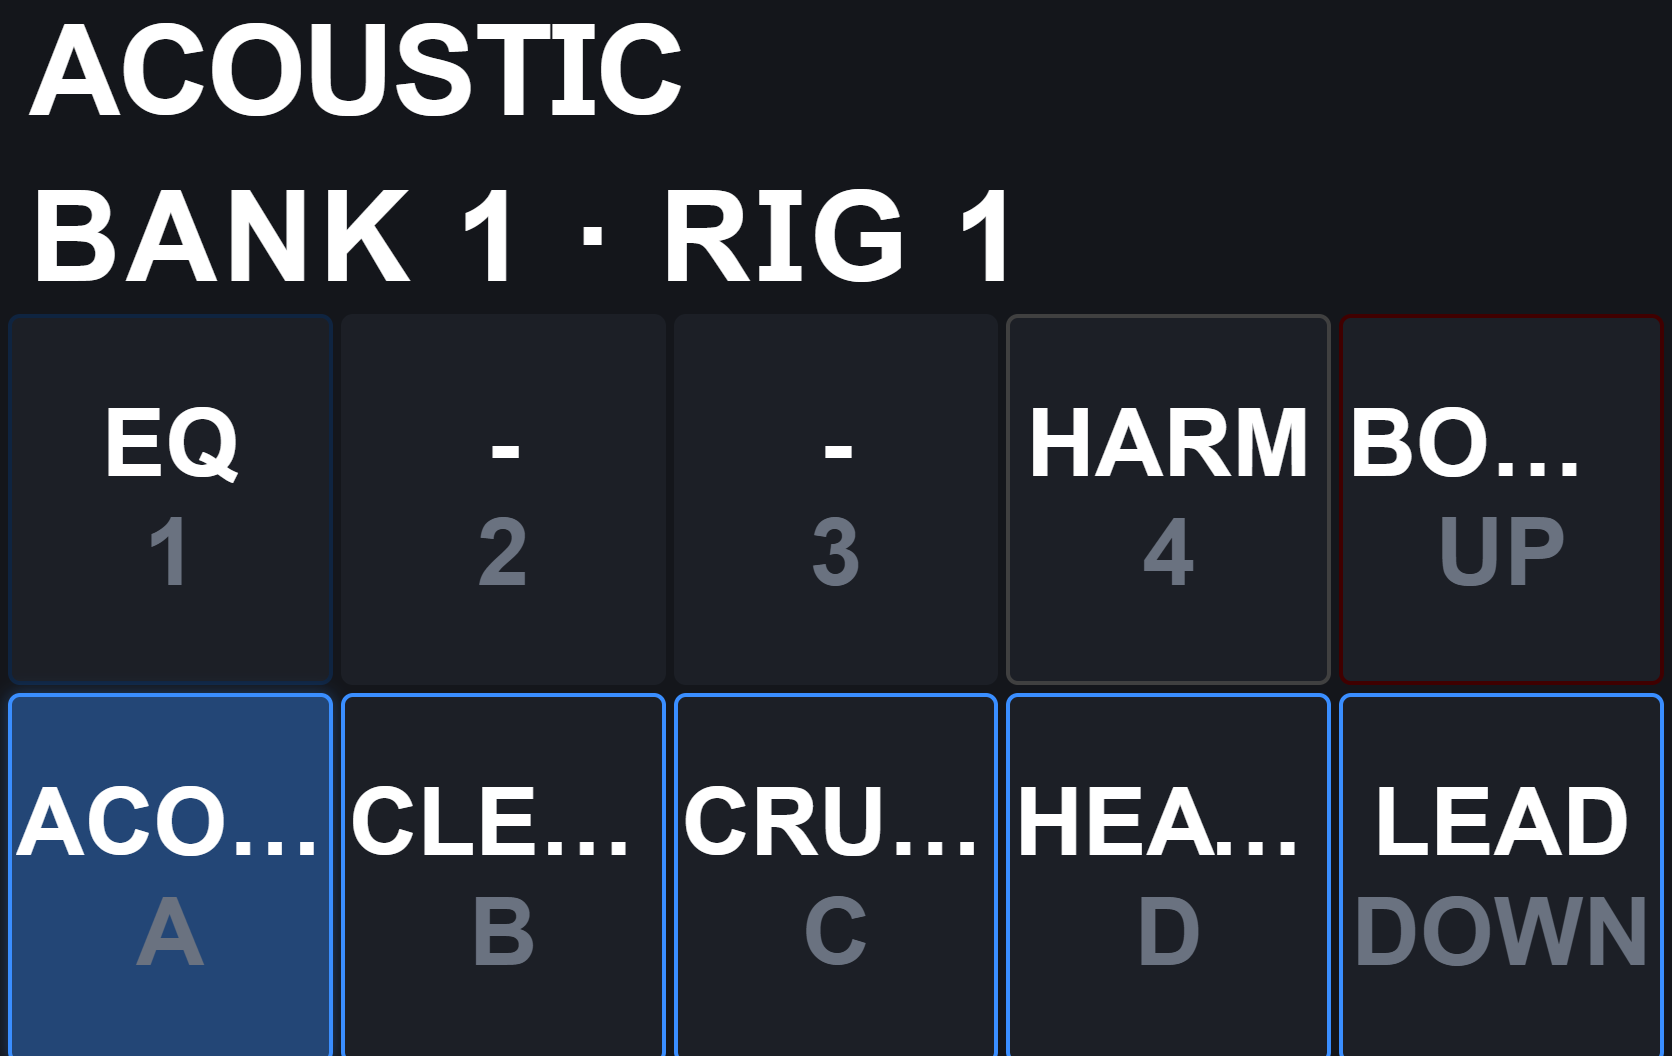
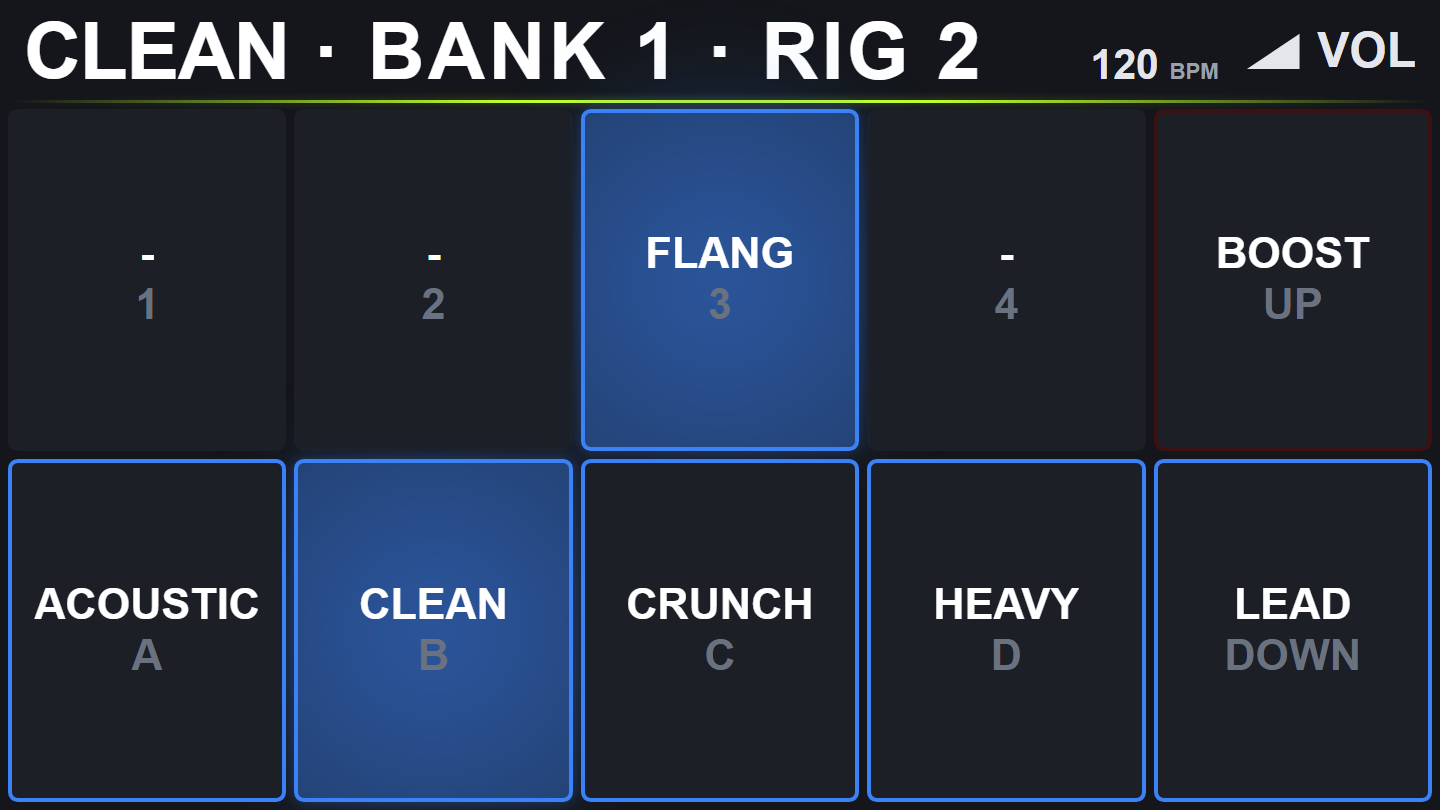
docs: refresh browser Stage screenshot with simulated device data
Capture the production Stage kiosk in Chromium with local simulated pedal/Kemper messages. Show CLEAN, FLANG active, BOOST off and VOL, and document browser access plus the actual switch-row layout.

Validation: Stage production build; browser bootstrap and state assertions; geometry at 10 viewports and both animation extremes; no browser runtime errors; screenshot links and PNG dimensions; git diff --check.

diff --git a/README.md b/README.md
@@ -115,14 +115,18 @@ The left sidebar is the main navigation, grouped by intent: **Build** (Patches, 
 
 ### Stage
 
-![Stage view](docs/ui-test-screenshots/44_stage.png)
+![Browser Stage showing CLEAN, FLANG active, and expression mode VOL](docs/ui-test-screenshots/44_stage.png)
+
+*Browser capture at 1440 × 810 with simulated pedal/Kemper data: CLEAN (bank 1, rig 2), FLANG active, BOOST off, and expression mode VOL.*
 
 Stage is a full-screen, live mirror of the pedal meant to run on a tablet next to you at a gig, not for editing. It shows two rows of five:
 
-- **Top row**: the current patch's switches (`1`-`4`, `A`-`D`), coloured by each switch's LED and lit when latched on - a toggled effect (for example a Boost or Harmonizer bound to a Kemper effect slot) shows active here the instant it engages, whether you tapped the switch or a Kemper Player rig change turned it on or off. Unbound switches show a dash.
-- **Bottom row**: the preset-navigation switches (`up` / `down` and the bank letters), showing the patch in each slot of the current bank in its bank colour, with the active slot highlighted - a bank/slot combination with no patch falls back to the unbound look, mirroring the pedal's own LED.
+- **Top row (`1`-`4`, `UP`)**: the current patch's switches, coloured by each switch's LED and lit when latched on - a toggled effect (for example a Boost or Harmonizer bound to a Kemper effect slot) shows active here the instant it engages, whether you tapped the switch or a Kemper Player rig change turned it on or off. Unbound switches show a dash.
+- **Bottom row (`A`-`D`, `DOWN`)**: when configured for preset navigation, these switches show the patch in each slot of the current bank in its bank colour, with the active slot highlighted - a bank/slot combination with no patch falls back to the unbound look, mirroring the pedal's own LED.
 
-The header shows the current patch name and `BANK n · RIG n`. Everything updates from the pedal's own state, not the other way around: for a bidirectionally-tracked device like the Kemper Player, Stage (and the pedal itself) follow whatever rig is actually loaded on the device - including a rig changed directly on the device's own front panel - rather than asserting bosun's last-remembered one. A label wider than its box scrolls (marquee) instead of being clipped.
+The header shows the current patch name and `BANK n · RIG n`, the tempo when available, and the confirmed expression mode (`VOL` / `WAH`, or `---` when unknown). Everything updates from the pedal's own state, not the other way around: for a bidirectionally-tracked device like the Kemper Player, Stage (and the pedal itself) follow whatever rig is actually loaded on the device - including a rig changed directly on the device's own front panel - rather than asserting bosun's last-remembered one. A label wider than its box scrolls (marquee) instead of being clipped.
+
+Stage also runs in a browser through the [Raspberry Pi hub](tools/rpi-hub/README.md), so another screen on the same network can follow the pedal without the desktop app.
 
 ### Patches
 

diff --git a/tools/rpi-hub/README.md b/tools/rpi-hub/README.md
@@ -214,6 +214,15 @@ artifacts older than their source. Run its hardware-free regression test with:
 powershell -NoProfile -ExecutionPolicy Bypass -File .\tools\rpi-hub\tests\test_deploy_captain.ps1
 ```
 
+## Browser Stage
+
+![Browser Stage showing CLEAN and expression mode VOL](../../docs/ui-test-screenshots/44_stage.png)
+
+Stage is available at `http://<hub-host>:8080/` from a browser on the same network.
+This 1440 × 810 capture uses the production Stage bundle with simulated
+pedal/Kemper data: CLEAN (bank 1, rig 2), FLANG on, BOOST off, and expression
+mode VOL. The screenshot was captured without connected hardware.
+
 ## Captain TFT and expression indicator regression
 
 Stage viewport/border, title separator and expression indicator geometry are
